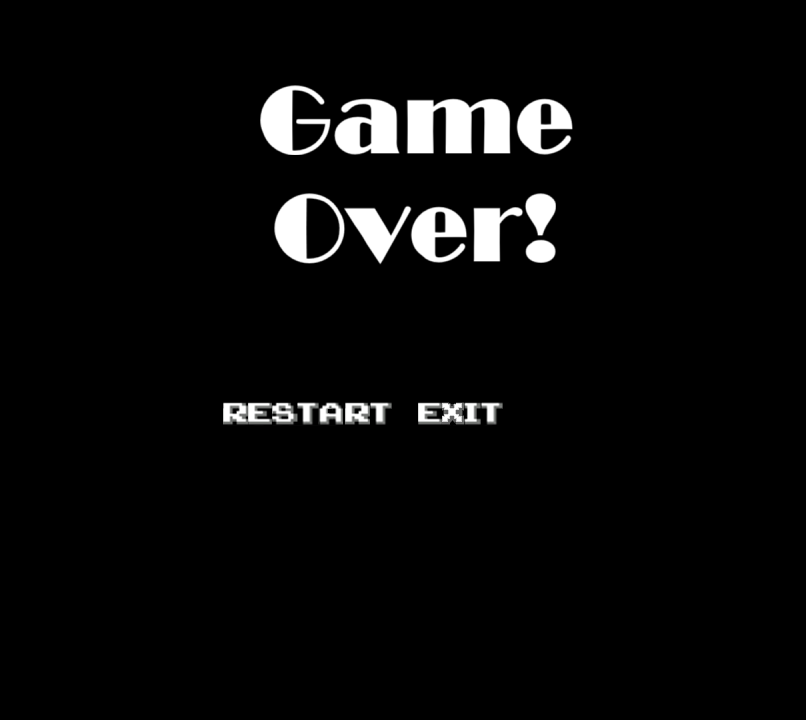
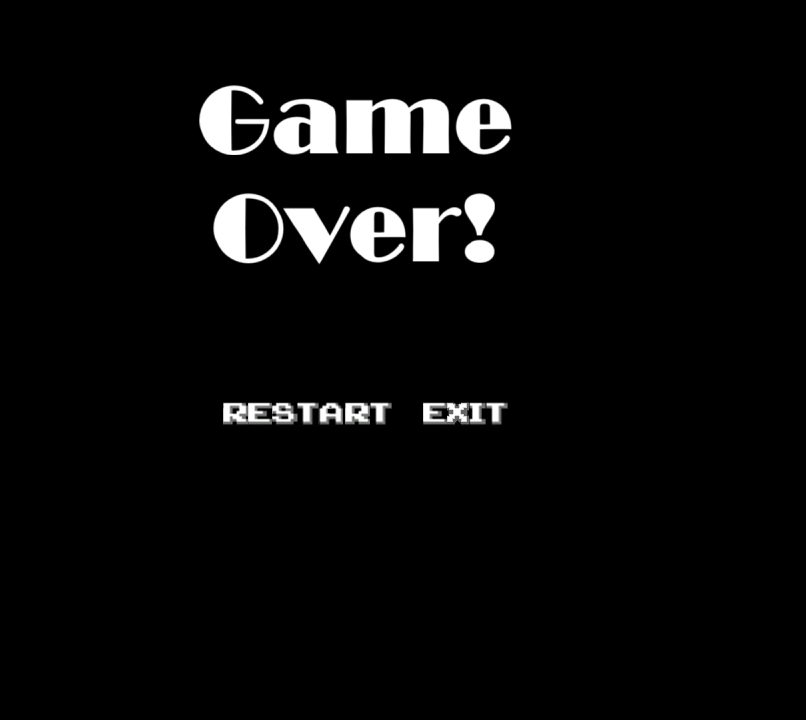
changes

Changed region(s): [[0.2481, 0.2444, 0.7134, 0.3667], [0.2481, 0.0917, 0.7134, 0.2139], [0.4963, 0.55, 0.6514, 0.6111]]

diff --git a/Audio.cpp b/Audio.cpp
@@ -11,28 +11,28 @@ void Audio::Init()
     }
 
     //  Muziek
-    if (ma_sound_init_from_file(&engine, "assets/Bomberman Audio/music/menu.mp3", MA_SOUND_FLAG_STREAM, NULL, NULL, &musicMenu) == MA_SUCCESS)
+    if (ma_sound_init_from_file(&engine, "assets/Bomberman-Audio/music/menu.mp3", MA_SOUND_FLAG_STREAM, NULL, NULL, &musicMenu) == MA_SUCCESS)
     {
         ma_sound_set_looping(&musicMenu, MA_TRUE);
         //ma_sound_start(&musicMenu);
     }
     else printf("Failed to load menu.mp3\n");
 
-    if (ma_sound_init_from_file(&engine, "assets/Bomberman Audio/music/game_01.mp3", MA_SOUND_FLAG_STREAM, NULL, NULL, &musicLvl1) == MA_SUCCESS)
+    if (ma_sound_init_from_file(&engine, "assets/Bomberman-Audio/music/game_01.mp3", MA_SOUND_FLAG_STREAM, NULL, NULL, &musicLvl1) == MA_SUCCESS)
     {
         //ma_sound_set_looping(&musicLvl1, MA_TRUE);
         //ma_sound_start(&musicLvl1);
     }
     else printf("Failed to load game_01.mp3\n");
 
-    if (ma_sound_init_from_file(&engine, "assets/Bomberman Audio/music/game_02.mp3", MA_SOUND_FLAG_STREAM, NULL, NULL, &musicLvl2) == MA_SUCCESS)
+    if (ma_sound_init_from_file(&engine, "assets/Bomberman-Audio/music/game_02.mp3", MA_SOUND_FLAG_STREAM, NULL, NULL, &musicLvl2) == MA_SUCCESS)
     {
         ma_sound_set_looping(&musicLvl2, MA_TRUE);
         //ma_sound_start(&musicLvl2);
     }
     else printf("Failed to load game_02.mp3\n");
 
-    if (ma_sound_init_from_file(&engine, "assets/Bomberman Audio/music/game_over.mp3", MA_SOUND_FLAG_STREAM, NULL, NULL, &musicGameOver) == MA_SUCCESS)
+    if (ma_sound_init_from_file(&engine, "assets/Bomberman-Audio/music/game_over.mp3", MA_SOUND_FLAG_STREAM, NULL, NULL, &musicGameOver) == MA_SUCCESS)
     {
         ma_sound_set_looping(&musicGameOver, MA_TRUE);
         //ma_sound_start(&musicGameOver);
@@ -40,22 +40,22 @@ void Audio::Init()
     else printf("Failed to load game_over.mp3\n");
 
     //  Sound effects
-    if (ma_sound_init_from_file(&engine, "assets/Bomberman Audio/sfx/explosion.wav", 0, NULL, NULL, &explosionSound) != MA_SUCCESS)
+    if (ma_sound_init_from_file(&engine, "assets/Bomberman-Audio/sfx/explosion.wav", 0, NULL, NULL, &explosionSound) != MA_SUCCESS)
         printf("Failed to load explosion.wav\n");
 
-    if (ma_sound_init_from_file(&engine, "assets/Bomberman Audio/sfx/place_bomb.wav", 0, NULL, NULL, &placeBombSound) != MA_SUCCESS)
+    if (ma_sound_init_from_file(&engine, "assets/Bomberman-Audio/sfx/place_bomb.wav", 0, NULL, NULL, &placeBombSound) != MA_SUCCESS)
         printf("Failed to load place_bomb.wav\n");
 
-    if (ma_sound_init_from_file(&engine, "assets/Bomberman Audio/sfx/player_death.wav", 0, NULL, NULL, &playerDeathSound) != MA_SUCCESS)
+    if (ma_sound_init_from_file(&engine, "assets/Bomberman-Audio/sfx/player_death.wav", 0, NULL, NULL, &playerDeathSound) != MA_SUCCESS)
         printf("Failed to load player_death.wav\n");
 
-    if (ma_sound_init_from_file(&engine, "assets/Bomberman Audio/sfx/walk_hor.wav", 0, NULL, NULL, &walkHorSound) != MA_SUCCESS)
+    if (ma_sound_init_from_file(&engine, "assets/Bomberman-Audio/sfx/walk_hor.wav", 0, NULL, NULL, &walkHorSound) != MA_SUCCESS)
         printf("Failed to load walk_hor.wav\n");
 
-    if (ma_sound_init_from_file(&engine, "assets/Bomberman Audio/sfx/walk_ver.wav", 0, NULL, NULL, &walkVerSound) != MA_SUCCESS)
+    if (ma_sound_init_from_file(&engine, "assets/Bomberman-Audio/sfx/walk_ver.wav", 0, NULL, NULL, &walkVerSound) != MA_SUCCESS)
         printf("Failed to load walk_ver.wav\n");
 
-    if (ma_sound_init_from_file(&engine, "assets/Bomberman Audio/sfx/game_over.wav", 0, NULL, NULL, &gameOverSound) != MA_SUCCESS)
+    if (ma_sound_init_from_file(&engine, "assets/Bomberman-Audio/sfx/game_over.wav", 0, NULL, NULL, &gameOverSound) != MA_SUCCESS)
         printf("Failed to load game_over.wav\n");
 
 }

diff --git a/Player.cpp b/Player.cpp
@@ -254,7 +254,7 @@ void Player::Move(float const deltaTime)
 	{
 		if (valcom[i])
 		{
-			if (checkAABBCollision(valcom[i]->x, valcom[i]->y, valcom[i]->SPRITE_SIZE))
+			if (CheckAABBCollision(valcom[i]->x, valcom[i]->y, valcom[i]->SPRITE_SIZE))
 			{
 				Pixel(frame);
 				cout << "AABB" << endl;
@@ -276,7 +276,7 @@ void Player::Move(float const deltaTime)
 	{
 		if (oneal[i])
 		{
-			if (checkAABBCollision(oneal[i]->x, oneal[i]->y, oneal[i]->SPRITE_SIZE))
+			if (CheckAABBCollision(oneal[i]->x, oneal[i]->y, oneal[i]->SPRITE_SIZE))
 			{
 				Pixel(frame);
 				cout << "AABB" << endl;
@@ -348,11 +348,13 @@ void Player::Draw(Surface* surface, float const theCamera)
 	}
 }
 
-bool Player::checkAABBCollision(float const otherX, float const otherY, int const otherSPRITE_SIZE)
+bool Player::CheckAABBCollision(float const otherX, float const otherY, int const otherSPRITE_SIZE) const
 {
 #ifdef _DEBUG
-	screen->Box(static_cast<int>(otherX), static_cast<int>(otherY), static_cast<int>(otherX) + otherSPRITE_SIZE, static_cast<int>(otherY) + otherSPRITE_SIZE, 0xff00ff);
-	screen->Box(static_cast<int>(tx), static_cast<int>(ty), static_cast<int>(tx) + SPRITE_SIZE, static_cast<int>(ty) + SPRITE_SIZE, 0xff00ff);
+	screen->Box(static_cast<int>(otherX), static_cast<int>(otherY), 
+		static_cast<int>(otherX) + otherSPRITE_SIZE, static_cast<int>(otherY) + otherSPRITE_SIZE, 0xfc0303);
+	screen->Box(static_cast<int>(tx), static_cast<int>(ty), 
+		static_cast<int>(tx) + SPRITE_SIZE, static_cast<int>(ty) + SPRITE_SIZE, 0xfc0303);
 #endif
 	return (otherX < tx + SPRITE_SIZE && otherY < ty + SPRITE_SIZE &&
 		otherX + static_cast<float>(otherSPRITE_SIZE) > tx && otherY + static_cast<float>(otherSPRITE_SIZE) > ty);

diff --git a/Bomb.cpp b/Bomb.cpp
@@ -145,7 +145,7 @@ void Bomb::Draw(Surface* surface, int const camera, float const deltaTime)
 							{
 								//play animation before deleting the brick (animation should be in the brick class) 
 								//foundBrick = true;
-								brick[b]->startAnimation = true;
+								//brick[b]->startAnimation = true;
 
 								/*if (brick[b]->animationEnded)
 								{
@@ -156,7 +156,7 @@ void Bomb::Draw(Surface* surface, int const camera, float const deltaTime)
 								collision = true;
 							}
 
-							if ((brick[b] && Collision(explosionX, explosionY, brick[b]->getX(), brick[b]->getY(), BRICK_SIZE)) ||
+							if (/*(brick[b] && Collision(explosionX, explosionY, brick[b]->getX(), brick[b]->getY(), BRICK_SIZE)) ||*/
 								map->CheckCollision(explosionX, explosionY))
 							{
 								collision = true;

diff --git a/Player.h b/Player.h
@@ -25,11 +25,10 @@ public:
 	bool GoToNextLevel();
 
 	void Draw(Surface* surface, float theCamera);
-	bool checkAABBCollision(float otherX, float otherY, int otherSPRITE_SIZE);
+	bool CheckAABBCollision(float otherX, float otherY, int otherSPRITE_SIZE) const;
 	void Pixel(int frameNumber);
 	bool PlayerPixelCollision(Enemy* enemy, int px, int py, int otherSPRITE_SIZE) const;
 	void DyingAnimation(float deltaTime);
-	void checkEnemyCollision(int start1, int end1, int start2, int end2);
 	void ResetPosition();
 	void SetMapPtr(Map* _map) { map = _map; }
 	void SetBombPtr(Bomb* _bomb) { bomb = _bomb; }

diff --git a/Power_ups.cpp b/Power_ups.cpp
@@ -37,7 +37,7 @@ void Power_ups::Draw(Surface* surface, int camera)
 
 bool Power_ups::Collision1()
 {
-	if (player1->checkAABBCollision(x + 2, y + 2, SPRITE_SIZE - 4))
+	if (player1->CheckAABBCollision(x + 2, y + 2, SPRITE_SIZE - 4))
 	{
 		cout << "hit" << endl;
 		return true;
@@ -47,7 +47,7 @@ bool Power_ups::Collision1()
 
 bool Power_ups::Collision2()
 {
-	if (player2->checkAABBCollision(x + 2, y + 2, SPRITE_SIZE - 4))
+	if (player2->CheckAABBCollision(x + 2, y + 2, SPRITE_SIZE - 4))
 	{
 		cout << "hit" << endl;
 		return true;

diff --git a/game.cpp b/game.cpp
@@ -120,9 +120,9 @@ void Game::Init()
 	}
 
 	menuScreen = new Surface("assets/UI/menu.png");
-	gameOverScreen = new Surface("assets/UI/gameOver2.png");
+	gameOverScreen = new Surface("assets/UI/gameOver.png");
 	gameModeScreen = new Surface("assets/UI/choose_gamemode.png");
-	controlsScreen = new Surface("assets/UI/controls2.png");
+	controlsScreen = new Surface("assets/UI/controls.png");
 	menuArrow = new Sprite(new Surface("assets/UI/Arrow.png"), 1);
 
 	menuUI = new UI(menuScreen, 250, 0);
